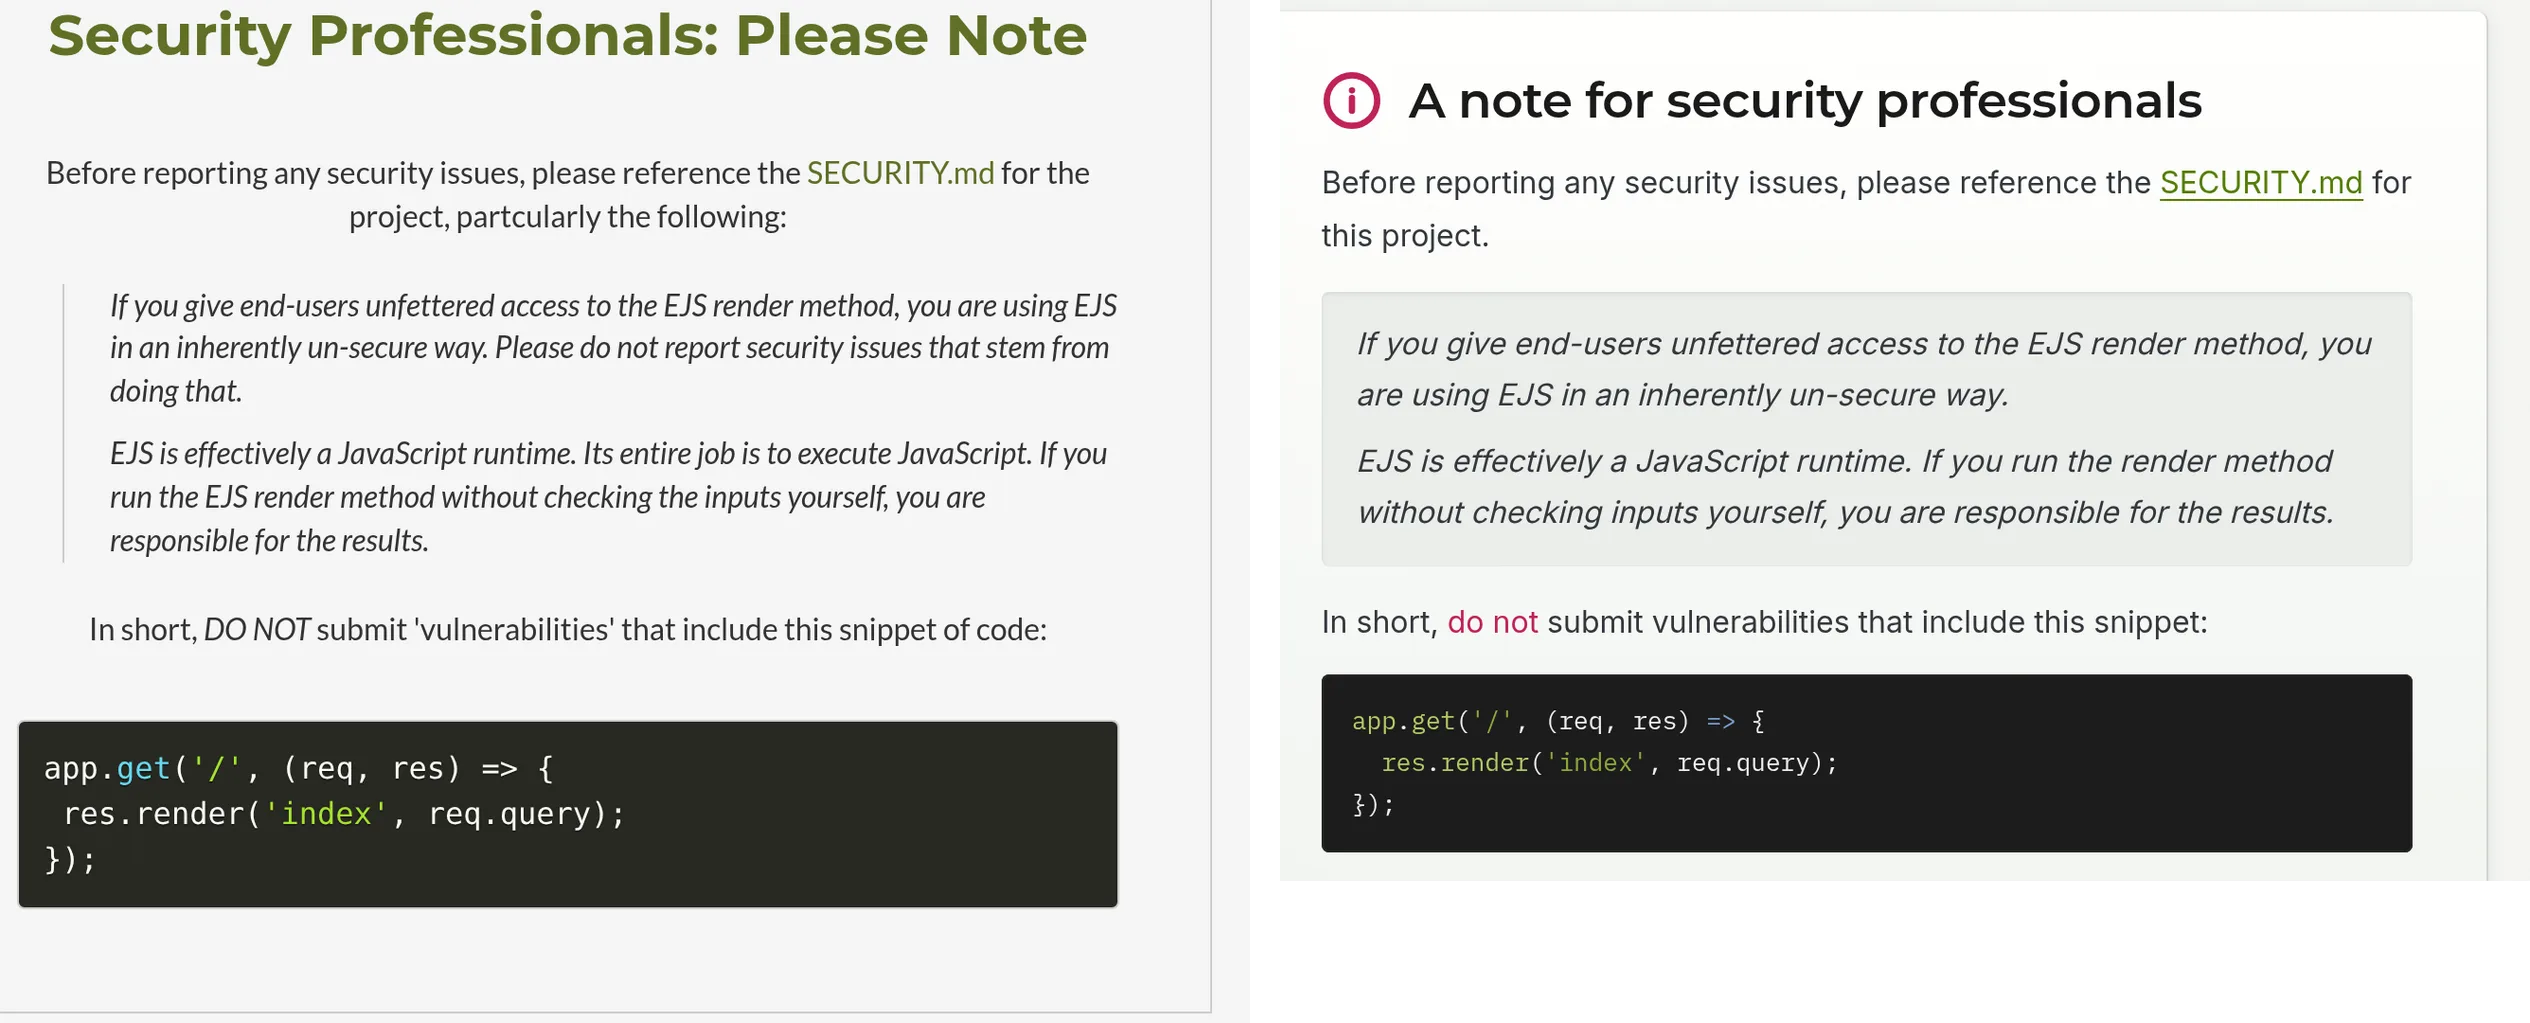
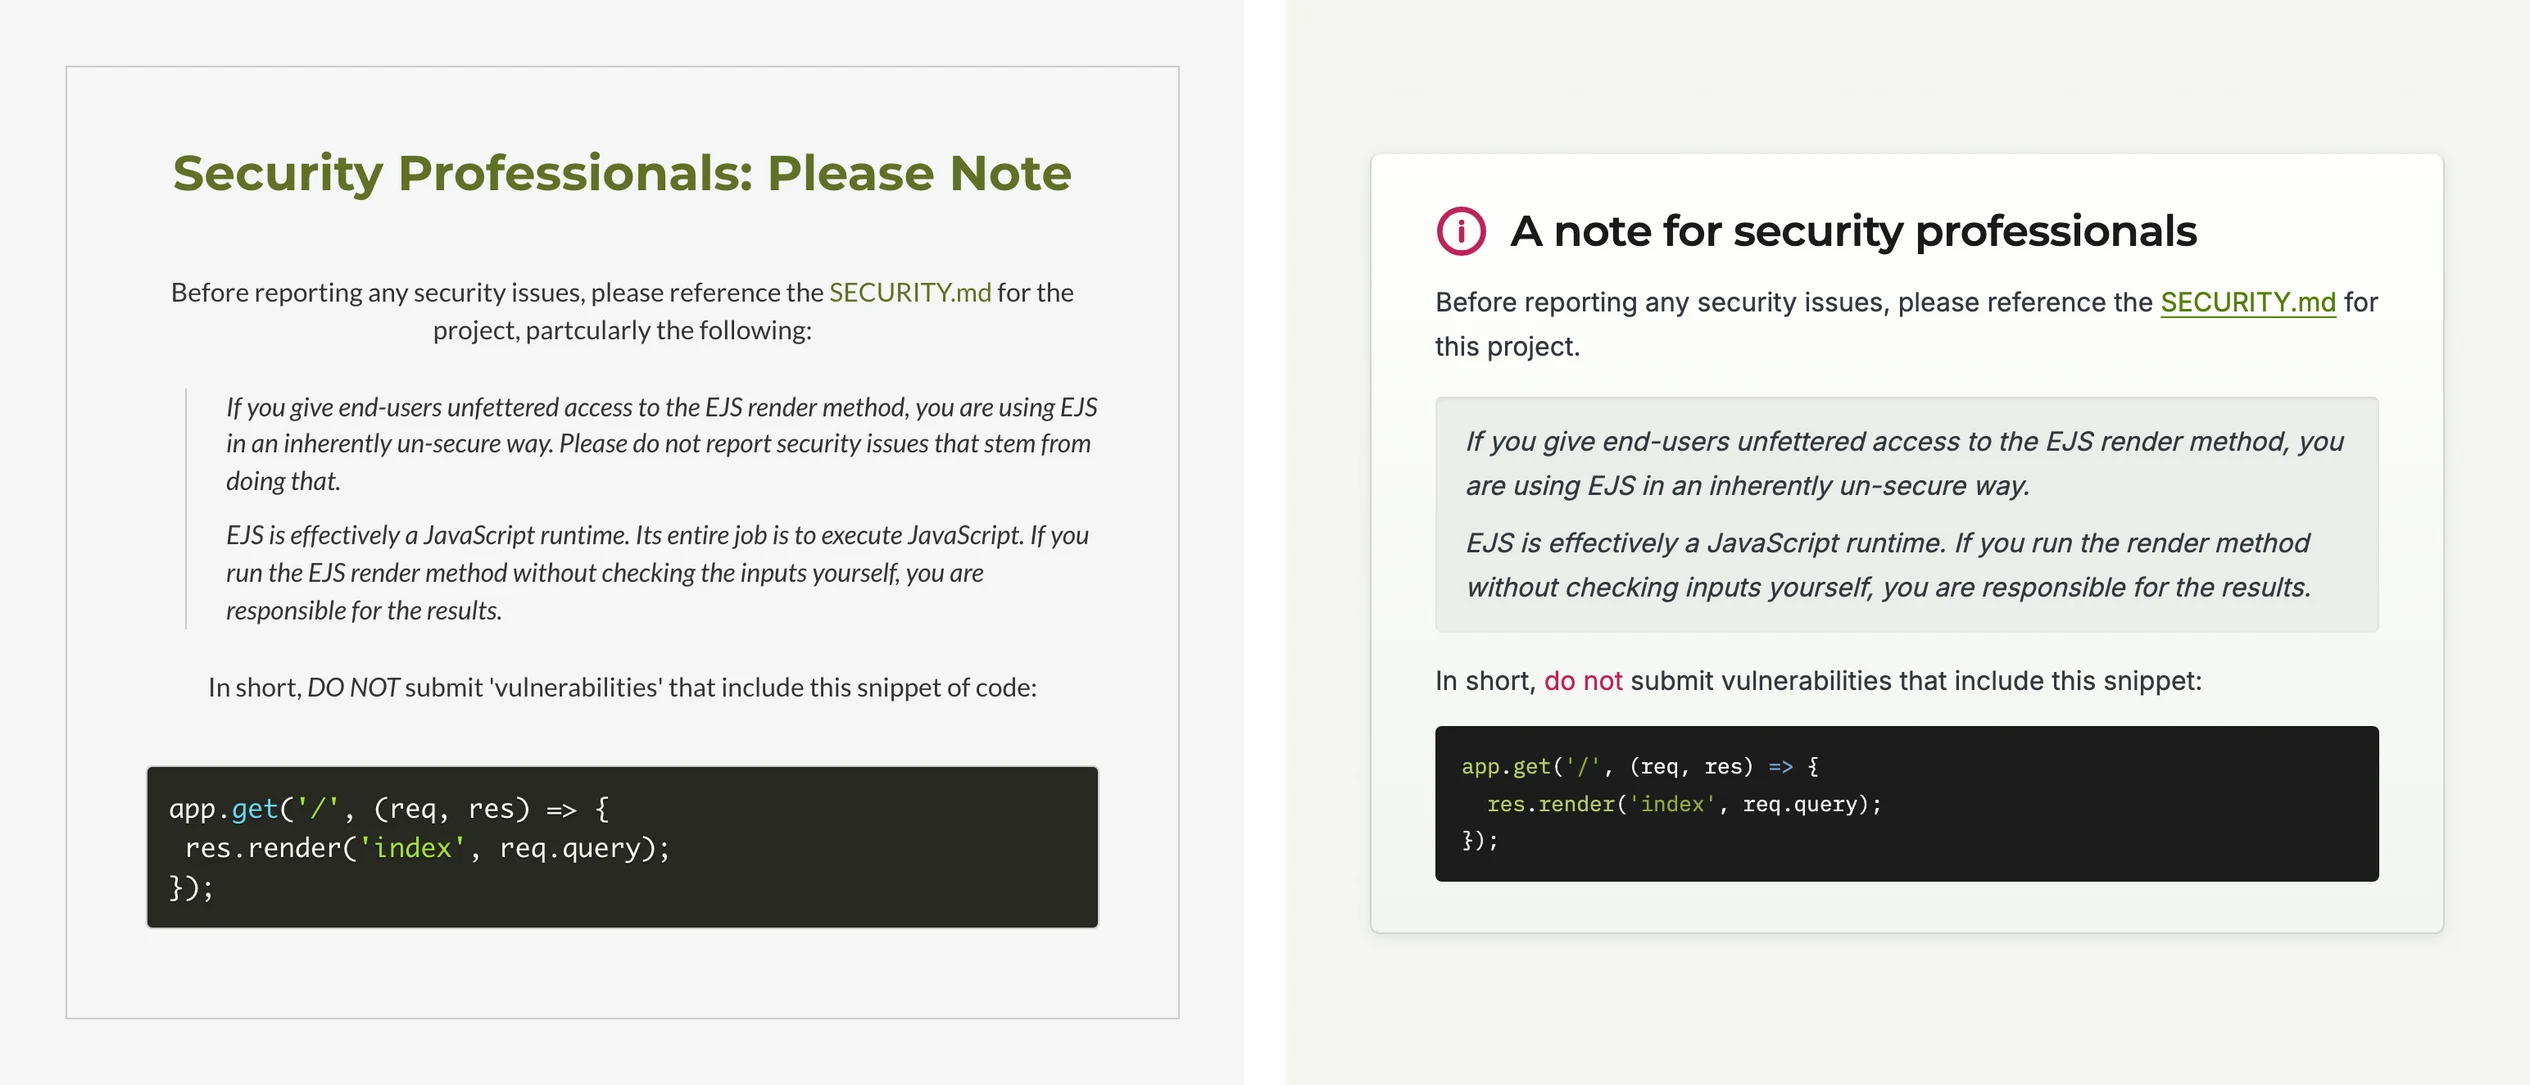
Re-shoot the EJS grids whole, and write the study as shipped
The comparison 2x2 and the security-notice pair are re-shot from the
ejs-site history at one viewport, padded to the tallest frame in each
frame's own background, so the cells match and nothing is cut. The docs
shot ends between lines instead of through one. The redesign is live on
ejs.co now: status goes to Shipped and the copy that described the old
site as current moves to the past tense.

diff --git a/src/data/projects.ts b/src/data/projects.ts
@@ -371,13 +371,13 @@ export const projects: Project[] = [
 		year: '2026',
 		tags: ['Landing Page', 'UI/UX'],
 		role: 'Redesigned the marketing site: hero, support page, and docs.',
-		/* Proposed, not Open source: the redesign is not deployed — see the
-		   link's note below, which is the same fact seen from the other side. */
-		status: 'Proposed',
+		/* Shipped (2026-10-13, was Proposed): the redesign is live on ejs.co.
+		   Not Open source — the library is mde's; what shipped is the site. */
+		status: 'Shipped',
 		featured: true,
 		blurb: 'A redesign of the EJS landing page, so the library says what it does up front.',
 		problem:
-			"ejs.co has looked more or less the same for years. There's a wordmark, a four-word tagline, and a lot of olive green. What it never gets around to is what EJS actually does, or why you would pick it over the alternatives. The only thing promoted above the fold is a different project. The Jake banner sits above EJS's own logo. Twenty million people install this library every week and the page tells them almost nothing about it.",
+			"Before the redesign, ejs.co had looked more or less the same for years. There was a wordmark, a four-word tagline, and a lot of olive green. What it never got around to was what EJS actually does, or why you would pick it over the alternatives. The only thing promoted above the fold was a different project: the Jake banner sat above EJS's own logo. Twenty million people install this library every week, and the page told them almost nothing about it.",
 		work:
 			"I led with a plain statement of what the library does, generate HTML with plain JS, and put the install command right under it in a chip you can copy. The numbers that make the case on their own are on the page for the first time: 20M+ weekly downloads, 7.7k stars, zero dependencies. I also built the two pages a one-screen site had nowhere to put. Support sends a question to Stack Overflow or GitHub Issues, and the docs have an on-this-page rail so the reference is something you can move around in. The olive green stays, since it is what people recognise, but it runs as a band and an accent instead of the whole canvas.",
 		/* ── Image order is 1, 0, 2, 3, and that is deliberate (Hiro's ask) ──
@@ -410,7 +410,7 @@ export const projects: Project[] = [
 		   you commit the one file, not the pair. */
 		cover: '/images/ejs0.webp',
 		images: [
-			{ src: '/images/ejs1.webp', w: 2532, h: 1322, caption: 'The site as it is today' },
+			{ src: '/images/ejs1.webp', w: 2532, h: 1322, caption: 'The site before the redesign' },
 			{ src: '/images/ejs0.webp', w: 2530, h: 1332, caption: 'The same page, rebuilt' },
 			{ src: '/images/ejs2.webp', w: 2528, h: 1386 },
 			{ src: '/images/ejs3.webp', w: 2532, h: 1386 },
@@ -422,8 +422,8 @@ export const projects: Project[] = [
 		   gone, and the build details (Astro output committed as static
 		   files, the lockfile lesson, the copy-pass line) came out of the
 		   docs, what-came-out and closing sections. The one fact the PR
-		   section carried that a reader needs, that the link below goes to
-		   the OLD site, now closes the last section.
+		   section carried that a reader needs, where the work stands, now
+		   closes the last section (since 2026-10-13: it is live).
 
 		   Facts are the redesign branch's history in
 		   ~/ejs-site (73 commits ahead of upstream) and PR #22 on mde/ejs-site.
@@ -434,14 +434,22 @@ export const projects: Project[] = [
 
 		   ejs4-8 are new (2026-10-07): 4 = the old features band, from the
 		   gitignored screenshots in ~/ejs-site; 5 = four compare-history frames
-		   (e9e9693, 31d321f, 87e7fe4, 674f45d) in a 2x2 with transparent gaps,
-		   shorter frames padded rather than cropped so each shape is whole;
-		   6 = the security notice cropped from the old about section and the
+		   (e9e9693, 31d321f, 87e7fe4, 674f45d) in a 2x2 with transparent gaps;
+		   6 = the security notice from the old about section and the
 		   redesign's, side by side; 7 = /docs/ served locally from the
-		   committed build, light theme to match ejs0; 8 = PR #22 on GitHub,
-		   dark, logged out. The old-site notice in 6 is NOT the crimson-ring
+		   committed build, light theme to match ejs0, cut off between the
+		   Import code blocks and the next heading so no line is sliced.
+		   8 = PR #22 on GitHub, dark, logged out. The old-site notice in 6 is NOT the crimson-ring
 		   version the paragraph describes — that one was never shot — so the
 		   caption says what the picture is, not what the text is about.
+		   ⚠ 5 and 6 were re-shot 2026-10-13 (Hiro: the grid cells ran to
+		   different heights and some frames were cut awkwardly). Every frame
+		   is a 1440px viewport at 2x with the sticky nav hidden, cut to the
+		   same band (x 16–1424; the 87e7fe4 grid is wider than the
+		   container), and padded to the tallest frame in ITS OWN background
+		   colour, centred, so every cell is the same size and nothing is
+		   cropped. White padding is what made the old cells look ragged.
+		   Re-shoot one and you re-shoot the set.
 
 		   ⚠ ASK HIRO before this ships:
 		   - §2: the brief. The repo has no written one; the constraints are
@@ -449,17 +457,15 @@ export const projects: Project[] = [
 		     maintainer, same surname) is not on the page and maybe should be.
 		   - §5: who said the notice "looked like a system error", and why the
 		     accordion came out after a day (the commit only says "lighter").
-		   - §7: whether mde has seen PR #22, and whether "unreviewed" belongs
-		     on a portfolio page at all. "As of this writing" dates fast.
 		   - §3: where 20M+ / 7.7k come from, and as of when. */
 		sections: [
 			{
-				body: 'ejs.co has looked the same for years: a wordmark, a four-word tagline, a lot of olive green. The only thing promoted above the fold is a different project, a Jake banner above EJS’s own logo, and the page never gets around to what the library does or why you would pick it over the alternatives. Twenty million people install it every week, and the first screen tells them almost nothing.',
-				images: [{ src: '/images/ejs1.webp', w: 2532, h: 1322, caption: 'The site as it is today' }],
+				body: 'Before the redesign, ejs.co had looked the same for years: a wordmark, a four-word tagline, a lot of olive green. The only thing promoted above the fold was a different project, a Jake banner above EJS’s own logo, and the page never got around to what the library does or why you would pick it over the alternatives. Twenty million people install it every week, and the first screen told them almost nothing.',
+				images: [{ src: '/images/ejs1.webp', w: 2532, h: 1322, caption: 'The site before the redesign' }],
 			},
 			{
 				heading: 'Constraints',
-				body: 'The site is a 2015 Bootstrap template served as static files, and I kept it that way: no framework, no build step and very little JavaScript. The olive green and the crimson were inherited too. People recognise them, so I kept both and changed only how much of the page they cover.',
+				body: 'The site was a 2015 Bootstrap template served as static files, and I kept it that way: no framework, no build step and very little JavaScript. The olive green and the crimson were inherited too. People recognise them, so I kept both and changed only how much of the page they cover.',
 				images: [
 					{ src: '/images/ejs4.webp', w: 2530, h: 757, caption: 'The old features band: the green as the whole canvas' },
 				],
@@ -473,35 +479,31 @@ export const projects: Project[] = [
 				heading: 'Comparing EJS to other libraries',
 				body: 'The one section that argues for EJS over the alternatives went through four shapes. Tabs that switched between Handlebars, Pug and Mustache hid the comparison behind a click. A side-by-side grid with a glowing EJS card put it on the table but gave it no weight. Peers in a row above a full-width answer card read as a hierarchy. The version that stayed stacks the three peers on the left and sets EJS on the right, with the checklist under the code.',
 				images: [
-					{ src: '/images/ejs5.webp', w: 2530, h: 1890, caption: 'Tabs, grid, row over answer, two columns' },
+					{ src: '/images/ejs5.webp', w: 2530, h: 1924, caption: 'Tabs, grid, row over answer, two columns' },
 				],
 			},
 			{
 				heading: 'What I cut',
 				body: 'A scroll-reveal animation went in and came out two weeks later: fade-up-on-scroll reads as template filler, and it was the only animation on the page. A mobile accordion for the About cards lasted a day before simpler, tighter cards replaced it. The security notice had a crimson ring and an exclamation mark, and the feedback was that it looked like a system error, so it is a plain note now.',
 				images: [
-					{ src: '/images/ejs6.webp', w: 2530, h: 1023, caption: 'The security notice, old site and redesign' },
+					{ src: '/images/ejs6.webp', w: 2530, h: 1085, caption: 'The security notice, old site and redesign' },
 				],
 			},
 			{
 				heading: 'Documentation',
 				body: 'I folded nine separate docs pages into one, with redirects so old links still work. A single page doesn’t need search or a left sidebar, so both came out. The on-this-page rail stayed, with its scrollbar visible, so readers can jump between sections of the reference.',
-				images: [{ src: '/images/ejs7.webp', w: 2530, h: 1757, caption: 'The documentation page' }],
+				images: [{ src: '/images/ejs7.webp', w: 2530, h: 1467, caption: 'The documentation page' }],
 			},
 			{
 				heading: 'What I’d do differently',
-				body: 'I would show the maintainer the work much earlier, not as one seventy-three-commit pull request at the end. I would also keep the decision log going: mine stops in late May, and the reasons for the later cuts survive only in commit messages. The redesign is still a proposal, so the link below goes to ejs.co as it is today.',
+				body: 'I would show the maintainer the work much earlier, not as one seventy-three-commit pull request at the end. I would also keep the decision log going: mine stops in late May, and the reasons for the later cuts survive only in commit messages. The redesign is live now at ejs.co.',
 				images: [],
 			},
 		],
-		/* ⚠ THIS GOES TO THE SITE AS IT IS TODAY — the OLD page, the one the
-		   first screenshot is of, not the redesign. The redesign is not deployed
-		   anywhere, so ejs.co is the before half of this page's before/after and
-		   the link lands a visitor on it. That is honest and worth keeping (the
-		   prose is an argument about a real page, and the reader can check it),
-		   but it does mean the label must stay the bare host: anything warmer —
-		   "See it live" — would promise the work above and deliver its opposite.
-		   If the redesign ever ships, this URL is the first thing to revisit. */
+		/* The redesign is live (2026-10-13), so the link now lands on the
+		   work above — until then it went to the OLD page, the before half of
+		   the before/after. The label stays the bare host, per the field's
+		   note: the destination, not an instruction. */
 		link: 'https://ejs.co/',
 		linkLabel: 'ejs.co',
 	},
